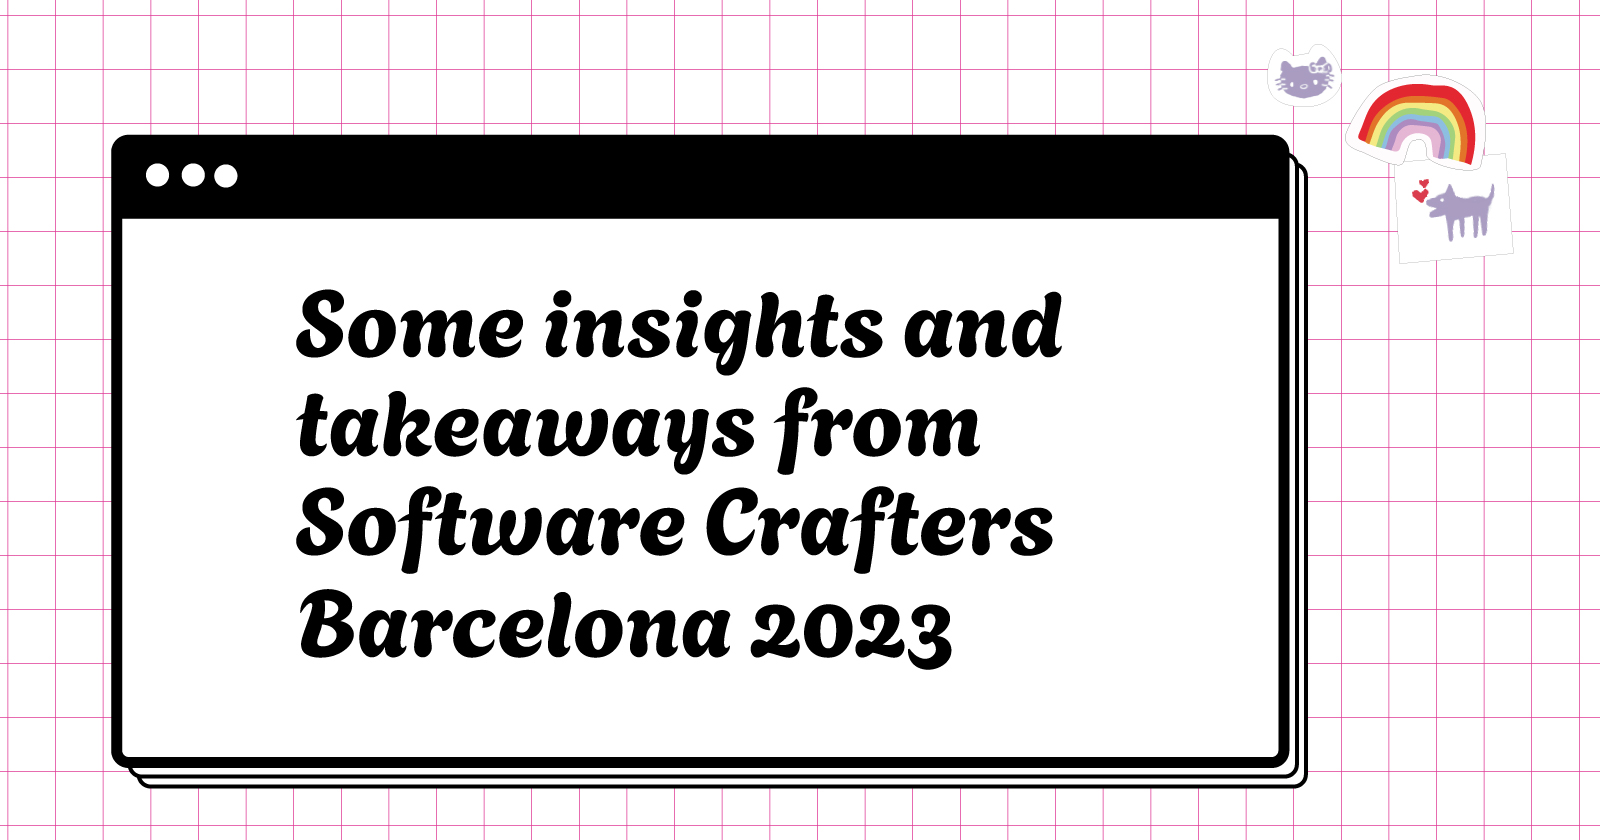
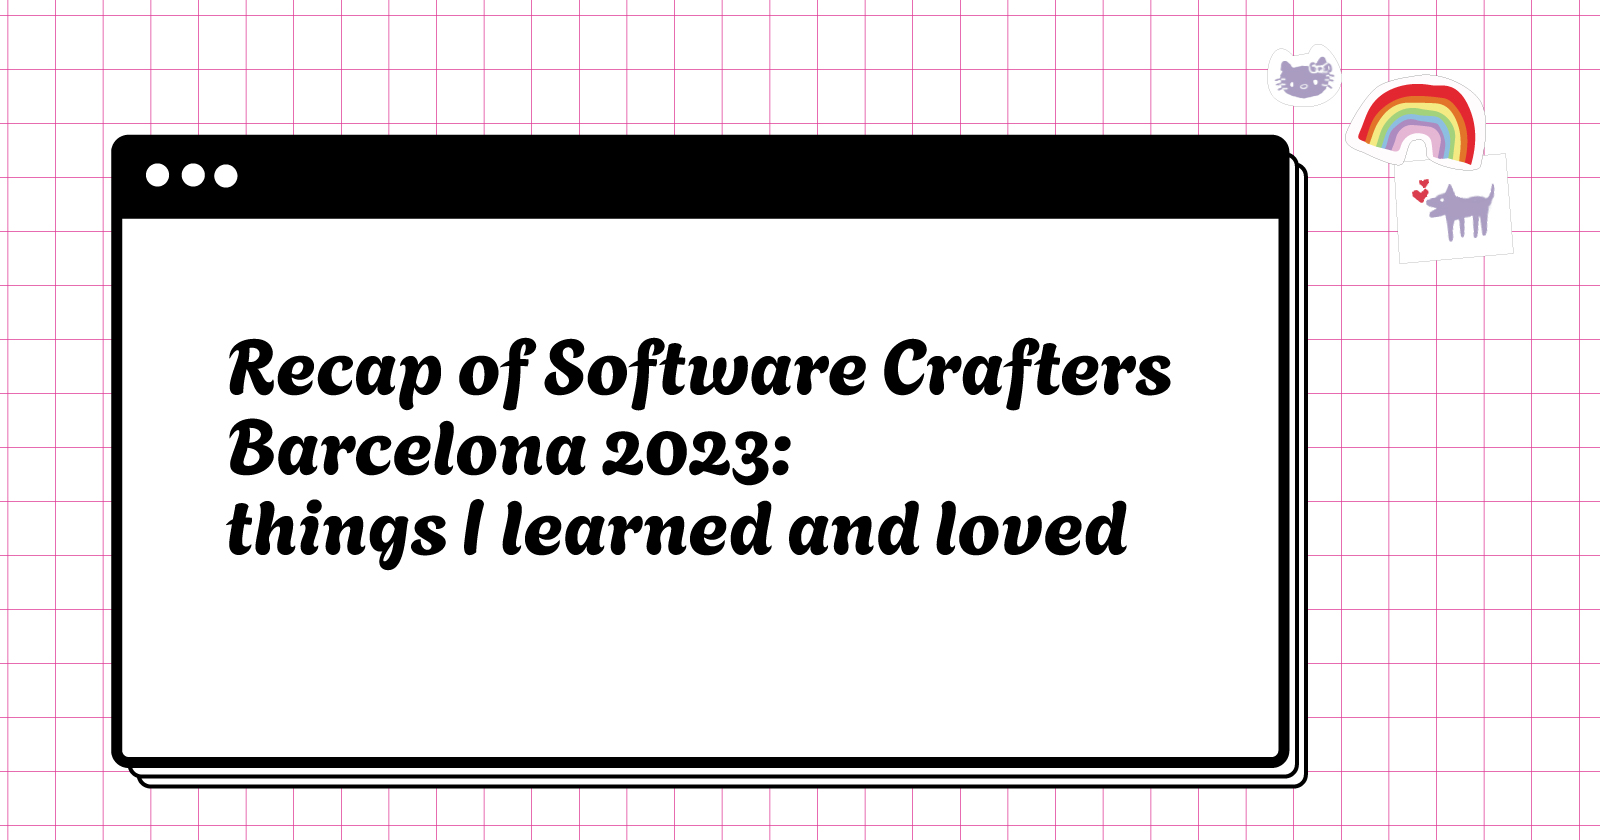
update article

Changed region(s): [[0.125, 0.3405, 0.75, 0.8048]]

diff --git a/docs/blog/posts/Insights-and-Takeaways-from-Software-Crafters-Barcelona.md b/docs/blog/posts/Insights-and-Takeaways-from-Software-Crafters-Barcelona.md
@@ -1,5 +1,5 @@
 ---
-title: "Some insights and takeaways from Software Crafters Barcelona 2023"
+title: "Recap of Software Crafters Barcelona 2023: things I learned and loved"
 date: 2023-10-27
 author: Viviana Yanez
 id: 5
@@ -19,7 +19,7 @@ I had the opportunity to attend the Software Crafters Barcelona event last weeke
 
 ## Junior 2.0
 
-The event started on Friday with an open-space discussion. I joined a group that was discusing a subject proposed by [Concha Asensio](https://twitter.com/conchaasensio): the challenges of transitioning to tech with years of experience in another field, which is my current situation.
+The event started on Friday with an open-space discussion. I joined a group exchanging views on a subject proposed by [Concha Asensio](https://twitter.com/conchaasensio): the challenges of transitioning to tech with years of experience in another field, which is my current situation.
 
 The conversation went around how to manage expectations being a junior again and having an impact that is not the same that you used to have in your previous field. How is it possible in this scenario to leverage all your existing skills to provide real value to your team?
 
@@ -29,30 +29,13 @@ Some highlights from this conversation:
 - Be proactive and look for any opportunity for your existing skills from other fields to be applied.
 - Stay open to sharing what you know.
 
-## Making an impact at any point in your career
-
-During day two, the day of talks, [Maria Calzada](https://twitter.com/m4riacg) shared valuable insights on how to make an impact regardless of your level.
-
-She talked about three pillars that are the basis of making a meaningful impact and shared examples of how her team adopted these practices:
-- Mindset: everything goes through our mind. 
-- Measurement: it is necesary measure to improve, and it is necesary improve to avoid degrading.
-- Teamwork: be able to show vulnerability and keep egos in place.
-
-I found the first very insightful: choosing from where we want to approach any challenge will directly impact our outcome. To have this is mind, Maria shared the idea of the 'responsibility ladder'. It provides an scale to be aware and refect about what is your position in any given situation.
-
-<div class='blog__illustration'>
-<img  src='../../public/assets/ilustrations/ladder.jpg' alt='Illustartion of the "responsibility ladder". The first four steps represent the "victim zone" which includes starting from bottom: "being uncounsious", "not responsible", "look for excuses" and "wait to be told what to do" steps. The next four steps are the "action zone" and includes: "admit reality", "compromise to act", "seek solutions",and "take action" in the top.'/>
-</div>
-
-
-
 ## Ideation to integration
 
 This was a workshop session by [Daniel Phillips](https://www.linkedin.com/in/danieljamesphillips/), Head of Engineering at Trainline. He shared with us their approach to delivering high-quality software, from the idea to the merge of a pull request.
 
 We discussed the importance of thinking beyond coding to adopt a problem-solving-focused approach, embracing collaboration, and the importance of setting from the beginning on the same page with all the team members, in which documentation plays a key role.
 
-One of the things discussed during the workshop was the importance of having clear acceptance criteria defined upfront to start working on a specific requirement. Well-defined acceptance criteria will provide clear guidelines to developers but also will align the expectations and smooth communication among the team because it will reduce misinterpretations of the requirements. It will also contribute to having a clear basis to test against, as it will be clear when a product or feature works as expected. 
+One of the things Daniel highlighted during the workshop was the importance of having clear acceptance criteria defined upfront to start working on a specific requirement. Well-defined acceptance criteria will provide clear guidelines to developers but also will align the expectations and smooth communication among the team because it will reduce misinterpretations of the requirements. It will also contribute to having a clear basis to test against, as it will be clear when a product or feature works as expected. 
 
 <div class='blog__illustration'>
 <img  src='../../public/assets/ilustrations/acceptance.jpg' alt='How to write a clear aceptance criteria. GIVEN: description of some initial context to an event to occur. Provide the necessary information to understand the scenario. WHEN: An event or action triggering the behavior described in the user story. Use a verb to describe the main action. No "and" clauses, keep it to one action!. THEN: Expected outcome. Describe observable changes applied after the action.'/>
@@ -69,9 +52,12 @@ Defining these roles thoughtfully has been particularly helpful for me to become
 </div>
 
 ---
+
 Attending the Software Crafters Barcelona event was an amazing experience.
 The atmosphere was welcoming and inclusive, making it a great opportunity to learn and connect with other professionals in the tech industry.
 
 If you are a newcomer to the field, attending an in-person event is an excellent opportunity to learn new things and expand your network. During the event, I had the chance to listen to insightful talks, ask questions to experienced engineers, connect with new people, and share experiences.
 
-Thank you for reading, and stay tunned for future updates :)
+Thanks for reading and stay tuned for more insights from other talks coming soon.
+
+
